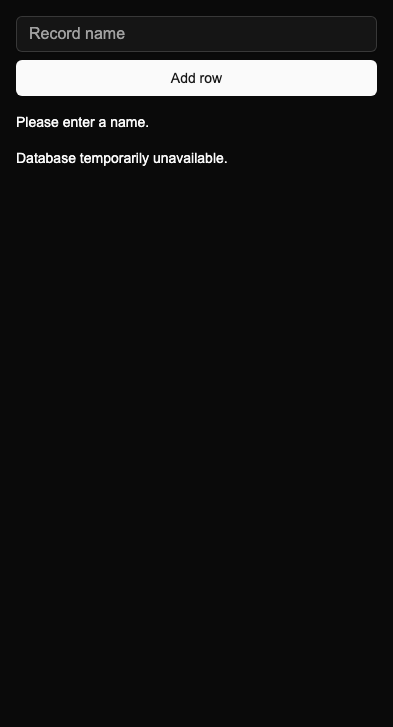
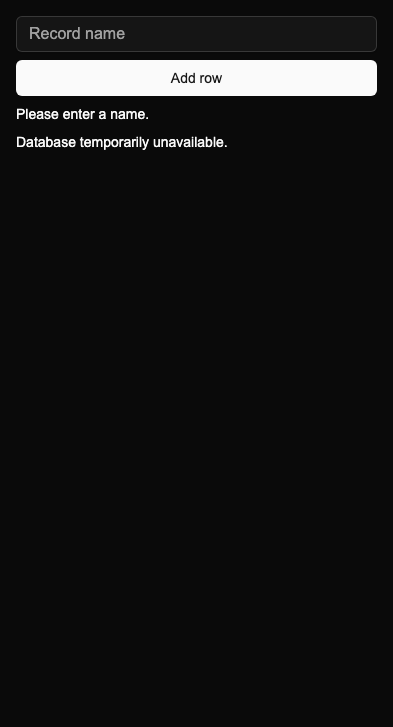
fix(database-starter): move form errors below inputs

Changed region(s): [[0.0305, 0.1513, 0.5802, 0.2421]]

diff --git a/src/features/database-starter/components/database-starter/DatabaseStarterForm.tsx b/src/features/database-starter/components/database-starter/DatabaseStarterForm.tsx
@@ -20,26 +20,28 @@ export function DatabaseStarterForm({
   const nameFieldError = fieldErrors.name?.[0];
 
   return (
-    <form action={formAction} className="flex flex-col gap-2 sm:flex-row">
-      <Input
-        id="name"
-        name="name"
-        aria-label="Record name"
-        placeholder="Record name"
-        aria-invalid={Boolean(nameFieldError)}
-        disabled={isSubmitting}
-        required
-      />
-      <Button type="submit" disabled={isSubmitting}>
-        Add row
-      </Button>
+    <form action={formAction} className="flex flex-col gap-2">
+      <div className="flex flex-col gap-2 sm:flex-row">
+        <Input
+          id="name"
+          name="name"
+          aria-label="Record name"
+          placeholder="Record name"
+          aria-invalid={Boolean(nameFieldError)}
+          disabled={isSubmitting}
+          required
+        />
+        <Button type="submit" disabled={isSubmitting}>
+          Add row
+        </Button>
+      </div>
       {nameFieldError ? (
-        <p className="text-destructive mt-2 text-sm" role="alert">
+        <p className="text-destructive text-sm" role="alert">
           {nameFieldError}
         </p>
       ) : null}
       {formStatus === "error" && formMessage ? (
-        <p className="text-destructive mt-2 text-sm" role="alert">
+        <p className="text-destructive text-sm" role="alert">
           {formMessage}
         </p>
       ) : null}